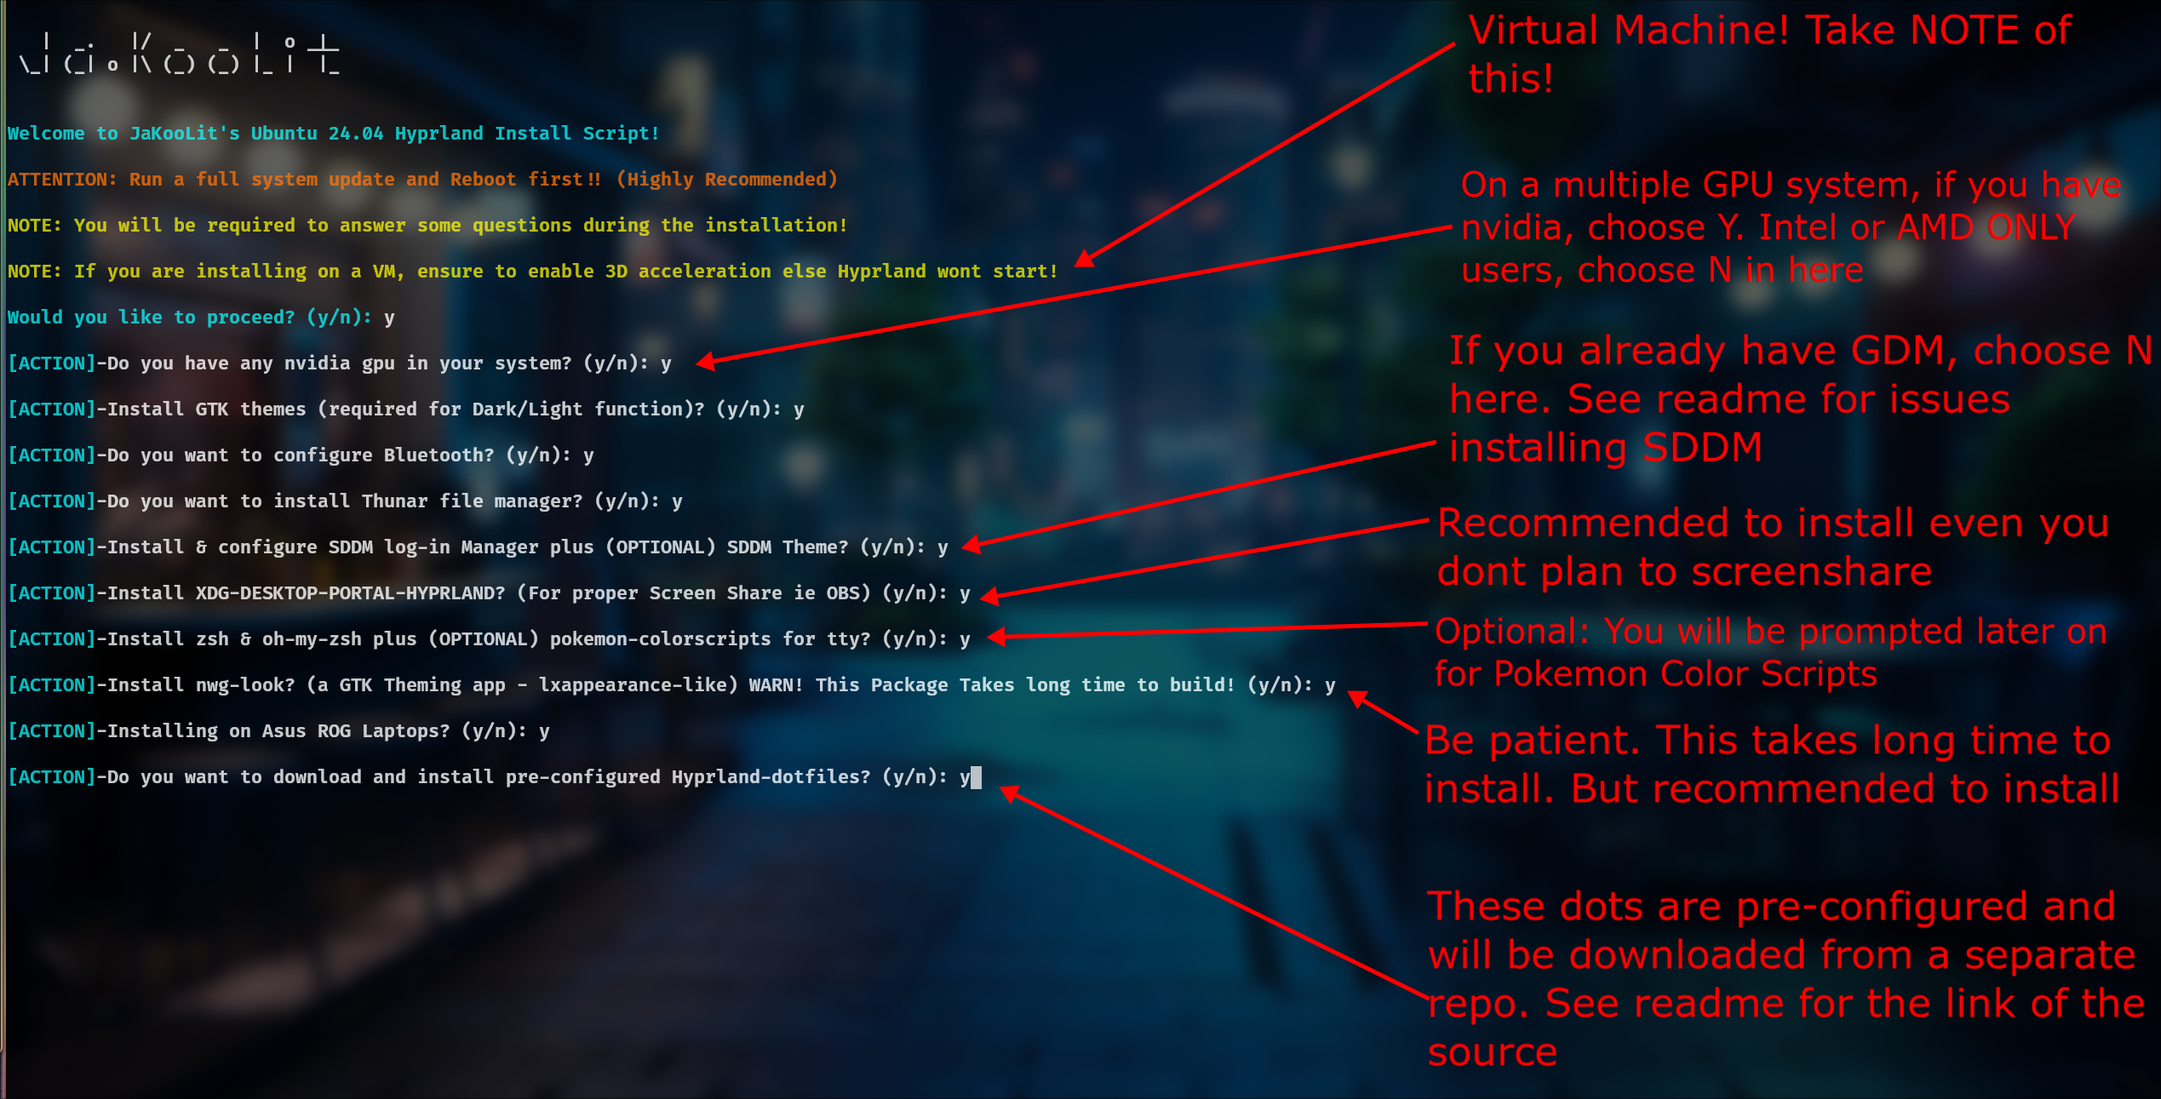
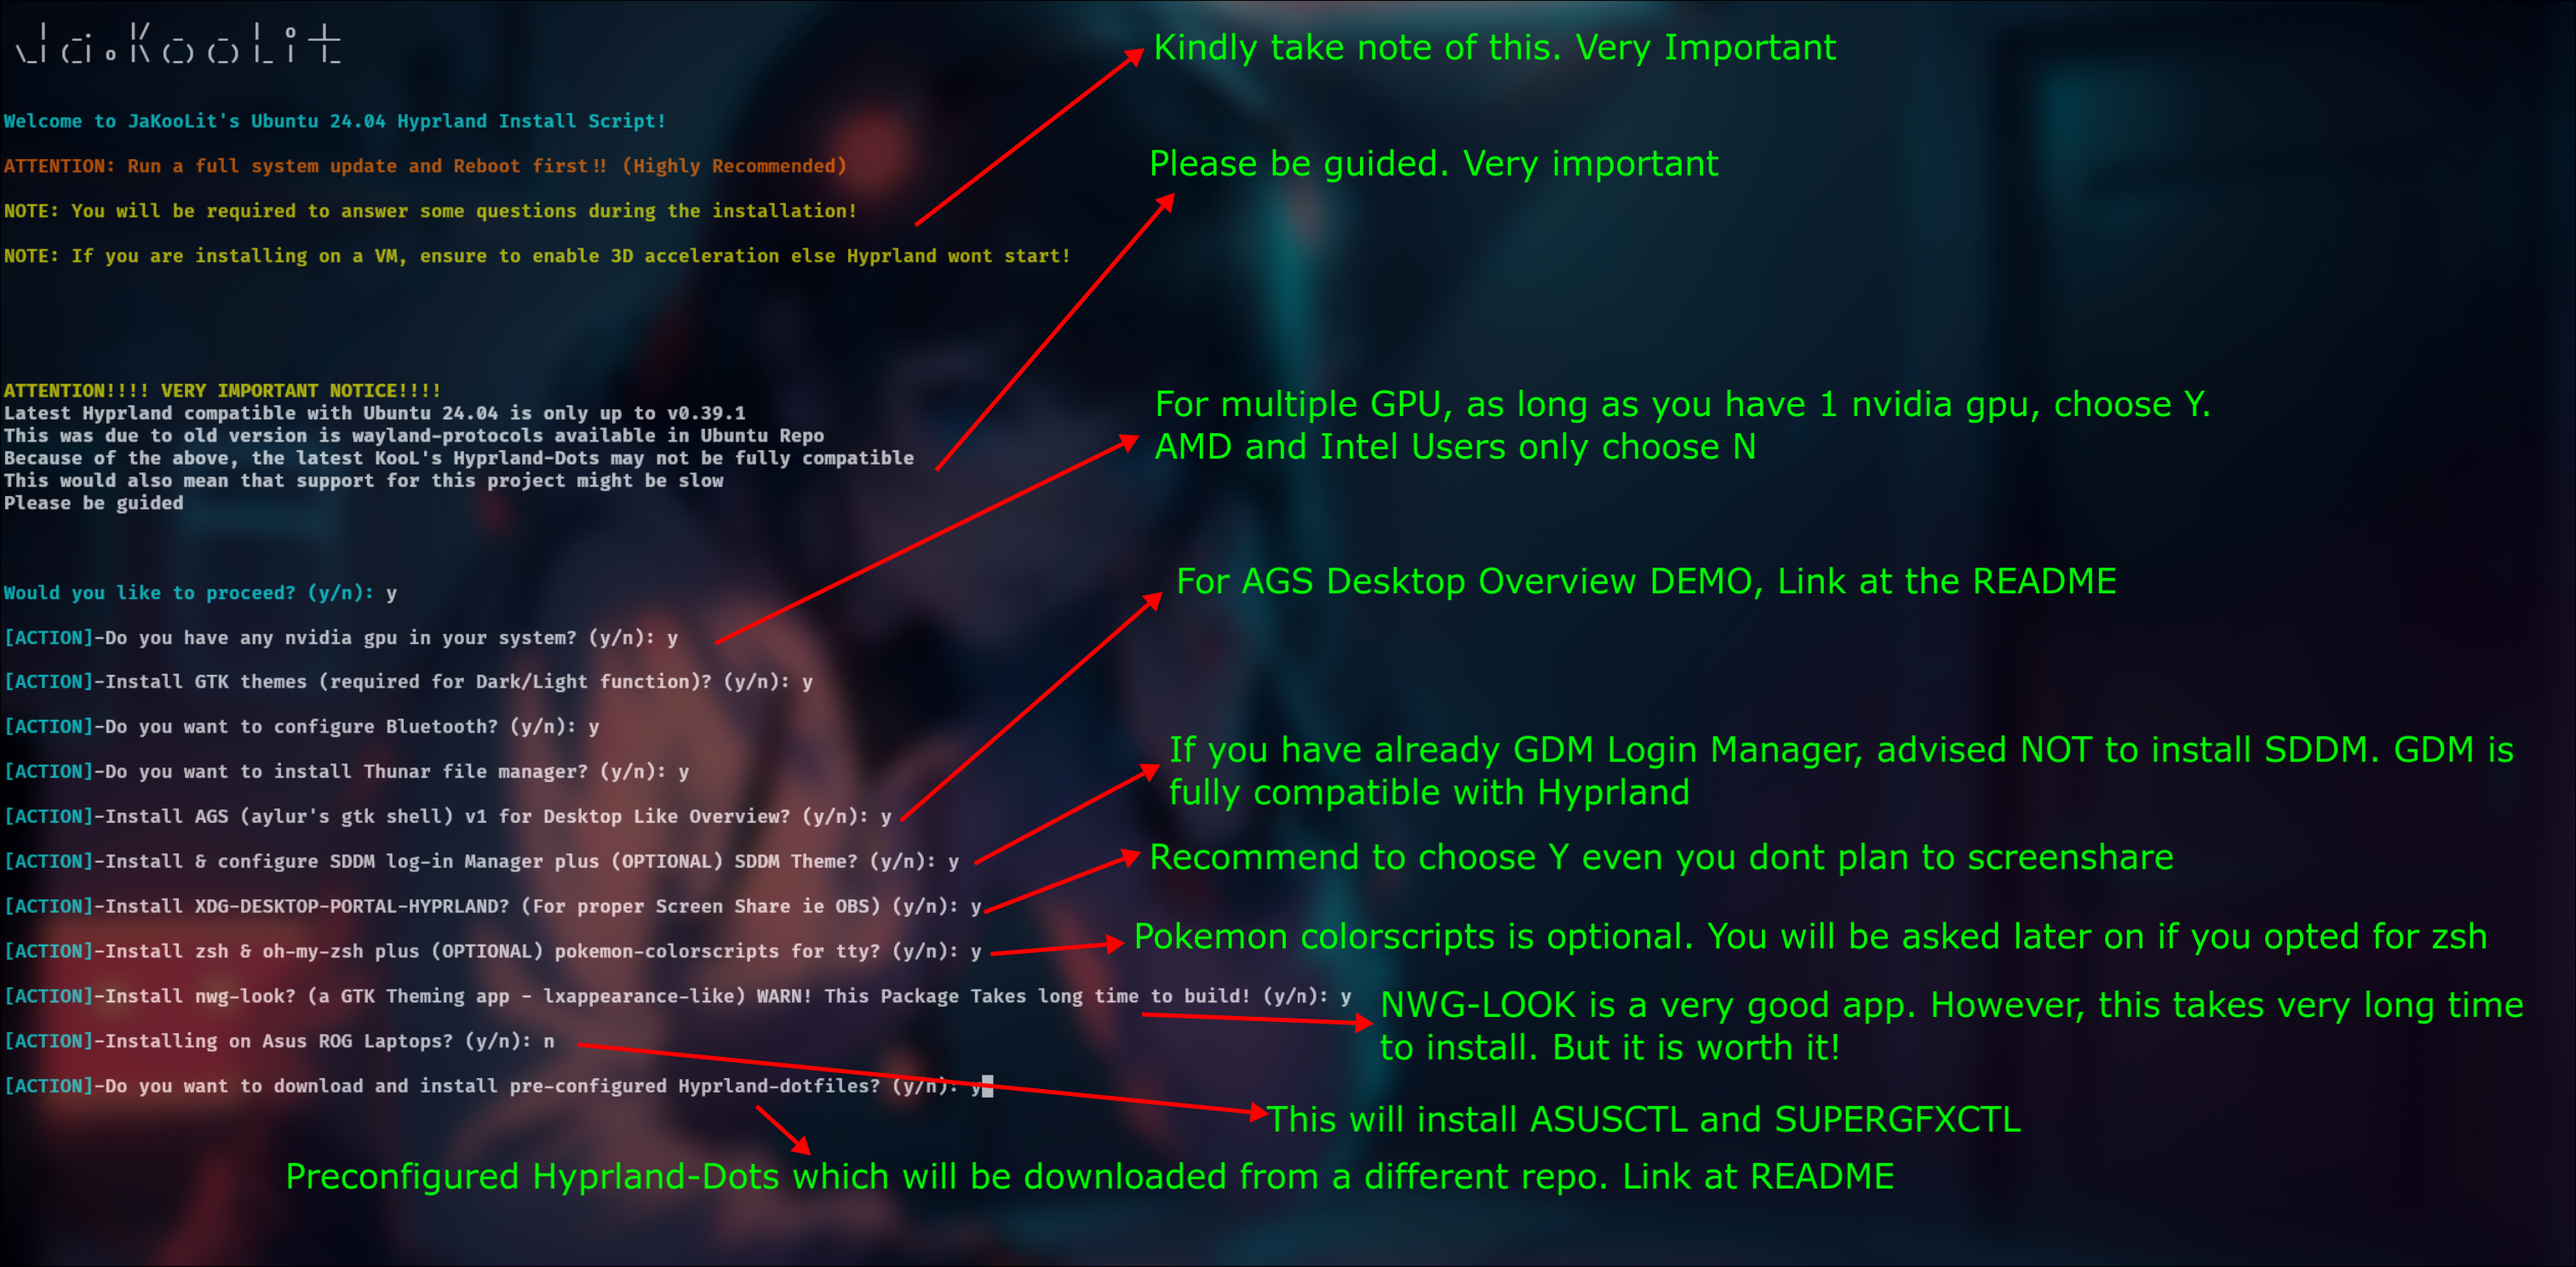
updated . AGS installation is now optional.

diff --git a/README.md b/README.md
@@ -127,9 +127,9 @@ https://github.com/JaKooLit/Hyprland-Dots/assets/85185940/50d53755-0f11-45d6-991
 </details>
 
 ### 🪧🪧🪧 ANNOUNCEMENT 🪧🪧🪧
-- This Repo does not contain Hyprland Dots or configs! Dotfiles can be checked here [`Hyprland-Dots`](https://github.com/JaKooLit/Hyprland-Dots) . During installation, if you opt to copy pre-configured dots, it will be downloaded from that centralized repo.
-- For Ubuntu 24.04, specific Hyprland-dots that are guaranted to work is [`LINK`](https://github.com/JaKooLit/Hyprland-Dots/releases/tag/v2.3.3-Ubuntu-24.04) . This is also the dots which will be set to installed on this script.
-- Newer dots may not work.
+- This Repo does not contain Hyprland Dots or configs! Dotfiles can be checked here [`Hyprland-Dots`](https://github.com/JaKooLit/Hyprland-Dots/tree/Ubuntu-24.04-Dots) . During installation, if you opt to copy pre-configured dots, it will be downloaded from that centralized repo.
+- For Ubuntu 24.04, specific Hyprland-dots that are guaranted to work is [`LINK`](https://github.com/JaKooLit/Hyprland-Dots/tree/Ubuntu-24.04-Dots) . This is also the dots which will be set to installed on this script.
+- Newer dots may not work properly.
 - Hyprland-Dots use are constantly evolving / improving. you can check CHANGELOGS here [`Hyprland-Dots-Changelogs`](https://github.com/JaKooLit/Hyprland-Dots/wiki/Changelogs)
 - Since the Hyprland-Dots are evolving, some of the screenshots maybe old
 - the wallpaper offered to be downloaded towards the end is from this [`REPO`](https://github.com/JaKooLit/Wallpaper-Bank)

diff --git a/CHANGELOGS.md b/CHANGELOGS.md
@@ -1,5 +1,9 @@
 ## Changelogs
 
+## 30 Jan 2025
+- AGS v1 installation is now optional.
+- switched to a specific branch on KooL's Hyprland-Dots to make it easier to update
+
 ## 12 Jan 2025
 - switch to final version of aylurs-gtk-shell-v1
 
